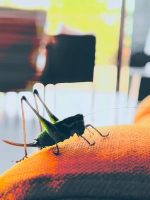
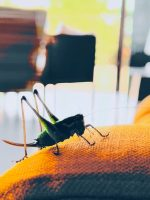
on the road

diff --git a/on-the-road/index.html b/on-the-road/index.html
@@ -212,7 +212,7 @@ button.fancybox-button--share, button.fancybox-button--fsenter, button.fancybox-
 
 
 
-<figure class="wp-block-image size-large"><a href="https://katjavogt.github.io/wp-content/uploads/On-The-Road-nr.-394-by-Jens-Haas.jpg"><img decoding="async" loading="lazy" width="450" height="600" data-id="2846" src="https://katjavogt.github.io/wp-content/uploads/On-The-Road-nr.-394-by-Jens-Haas.jpg" alt="" class="wp-image-2846" srcset="https://katjavogt.github.io/wp-content/uploads/On-The-Road-nr.-394-by-Jens-Haas.jpg 450w,https://katjavogt.github.io/wp-content/uploads/On-The-Road-nr.-394-by-Jens-Haas-225x300.jpg 225w,https://katjavogt.github.io/wp-content/uploads/On-The-Road-nr.-394-by-Jens-Haas-150x200.jpg 150w,https://katjavogt.github.io/wp-content/uploads/On-The-Road-nr.-394-by-Jens-Haas-300x400.jpg 300w" sizes="(max-width: 450px) 100vw, 450px"></a><figcaption class="wp-element-caption">Colli Euganei 2023</figcaption></figure>
+<figure class="wp-block-image size-full"><a href="https://katjavogt.github.io/wp-content/uploads/On-The-Road-nr.-394-by-Jens-Haas.jpg"><img decoding="async" loading="lazy" width="600" height="800" data-id="2853" src="https://katjavogt.github.io/wp-content/uploads/On-The-Road-nr.-394-by-Jens-Haas.jpg" alt="" class="wp-image-2853" srcset="https://katjavogt.github.io/wp-content/uploads/On-The-Road-nr.-394-by-Jens-Haas.jpg 600w,https://katjavogt.github.io/wp-content/uploads/On-The-Road-nr.-394-by-Jens-Haas-225x300.jpg 225w,https://katjavogt.github.io/wp-content/uploads/On-The-Road-nr.-394-by-Jens-Haas-150x200.jpg 150w,https://katjavogt.github.io/wp-content/uploads/On-The-Road-nr.-394-by-Jens-Haas-300x400.jpg 300w" sizes="(max-width: 600px) 100vw, 600px"></a><figcaption class="wp-element-caption">Colli Euganei 2023</figcaption></figure>
 
 
 

diff --git a/comments/feed/index.html b/comments/feed/index.html
@@ -11,7 +11,7 @@
 	<atom:link href="https://katjavogt.github.io/comments/feed/" rel="self" type="application/rss+xml" />
 	<link>http://katjavogt.github.io/</link>
 	<description>Professor of Philosophy Columbia University</description>
-	<lastBuildDate>Mon, 03 Jul 2023 16:42:54 +0000</lastBuildDate>
+	<lastBuildDate>Tue, 04 Jul 2023 09:47:20 +0000</lastBuildDate>
 	<sy:updatePeriod>
 	hourly	</sy:updatePeriod>
 	<sy:updateFrequency>

diff --git a/feed/index.html b/feed/index.html
@@ -12,7 +12,7 @@
 	<atom:link href="https://katjavogt.github.io/feed/" rel="self" type="application/rss+xml" />
 	<link>http://katjavogt.github.io/</link>
 	<description>Professor of Philosophy Columbia University</description>
-	<lastBuildDate>Mon, 03 Jul 2023 16:42:54 +0000</lastBuildDate>
+	<lastBuildDate>Tue, 04 Jul 2023 09:47:20 +0000</lastBuildDate>
 	<language>en-US</language>
 	<sy:updatePeriod>
 	hourly	</sy:updatePeriod>
